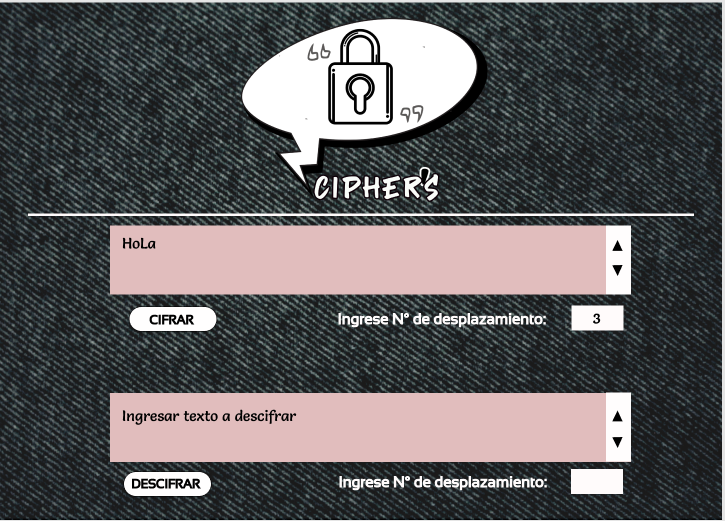
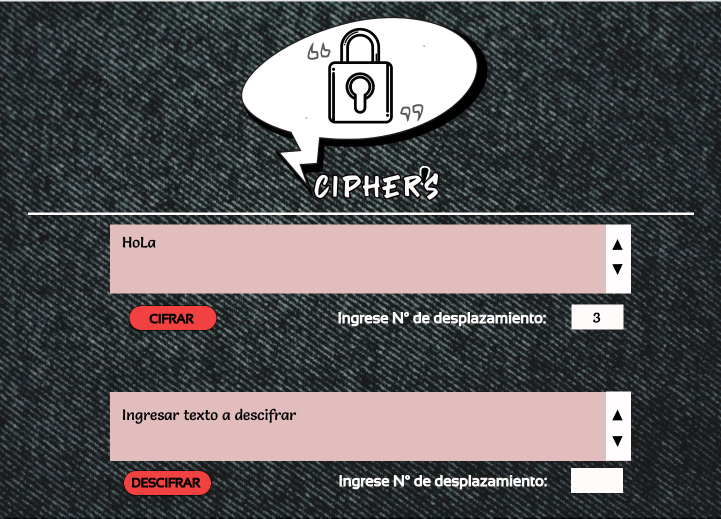
actualizacion proyecto

Changed region(s): [[0.0, 0.0, 1.0, 1.0], [0.1526, 0.4624, 0.2136, 0.4933]]

diff --git a/src/index.html b/src/index.html
@@ -8,44 +8,30 @@
 
     </head>
     <body>
-      <header>
-        <!-- logo -->
-        <div class="logo">
-          <img src="imagenes/logo.png" alt="logo ciphers">
-          <hr>
-        </div>
-
+      <header class="logo">
+          <img src="imagenes/logo.png" alt="logo ciphers" class = logo> 
+          <hr >  
       </header>
 
       <main class="container">
+        <section>
           <form name="Cifrar">
-            <div>
               <textarea id="newText" class="text" placeholder="Ingresa texto a cifrar" name="SourceText">
               </textarea>
-            </div>
-            <div class="cif">
               <input class="btn" type="button" value= "CIFRAR" id="encodeText">
-            </div>
-            <div class="cif">
               <input class="shift_2" type="number" name="shift" id="des_cif" value="">
-              <label class="box">N° de desplazamiento:
-              </label>
-            </div>
+              <label class="box">N° de desplazamiento:</label>
           </form>
+        </section>
+        <section>
           <form name="Descifrar">
-            <div id="tex_2">
-              <textarea id="resultText" class="text" placeholder="Ingresar texto a descifrar" name="ResultText">
+              <textarea id="resultText" class="tex_2" placeholder="Ingresar texto a descifrar" name="ResultText">
               </textarea>
-            </div>
-            <div class="desci">
               <input class="btn" type="button" value="DESCIFRAR" id="decodeText">
-            </div>
-            <div class="desci">
               <label class="box" id="des_2" >N° de desplazamiento:</label>
               <input class="shift_2" type="number" name="shift" id="des_des" value="">
-            </div>
-
           </form>
+        </section>
 
       </main>
       <script src="index.js" type="module"></script>

diff --git a/src/style.css b/src/style.css
@@ -9,19 +9,19 @@ body{padding: 0;
        }
    /* logo */
    .logo {width: 320px;
-          height: 420px;
-          top: 33%;
-          left: 45%;
+          height: 70%;
+          margin-top: 21%;
+          left: 50%;
           position: absolute;
-          transform: translate(-50%, -50%);
+          transform: translate(-48%, -50%);
          }
    /* linea de separacion */
    hr {width: 200%;
        height: 5px;
-       top: 65%;
+       margin-top: 66%;
        background-color: #ffff;
        position: absolute;
-       transform: translate(-15%, -15%);
+       transform: translate(-27%, -15%);
       }
    /* centrado contenido */
    .container {width: 320px;
@@ -43,7 +43,7 @@ body{padding: 0;
              resize: none;
              font-size: 20px;
              }
-   #tex_2{margin-top: 15%;
+   .tex_2{margin-top: 15%;
          }
    /* diseño botones cifrar/descifrar */
    .btn     {margin-top: 4%;
@@ -72,7 +72,7 @@ body{padding: 0;
           }
    /* diseño input cifrar/descifrar*/
    .shift_2 {width: 100px;
-             margin-top: -20px;
+             margin-top: 20px;
              margin-left: 115%;
              position: absolute;
              }

diff --git a/src/cipher.js b/src/cipher.js
@@ -29,12 +29,8 @@ const cipher =
               //En el caso de descifrado hacemos el mismo procedimiento de encode pero en la ubicación ascii tomamos el número 90 y colocamos
               //negativo para que vaya a la inversa.
               decode: (des_des ,texto2)=>{
-              if ( des_des == "" || des_des == 0|| des_des == null) {
-              throw new TypeError("numero invalido");
-              }
-              else if (texto2 == "" || texto2 === 0 || texto2 == null) { 
-              throw new TypeError('Mensaje invalido');
-              }
+              if ( des_des == "" || des_des == 0|| des_des == null) {throw new TypeError("numero invalido");}
+              else if (texto2 == "" || texto2 === 0 || texto2 == null) {throw new TypeError('Mensaje invalido');}
               let desText = "";
               for (let i = 0; i < texto2.length; i++){
               let ascii_1 = texto2.charCodeAt(i);
